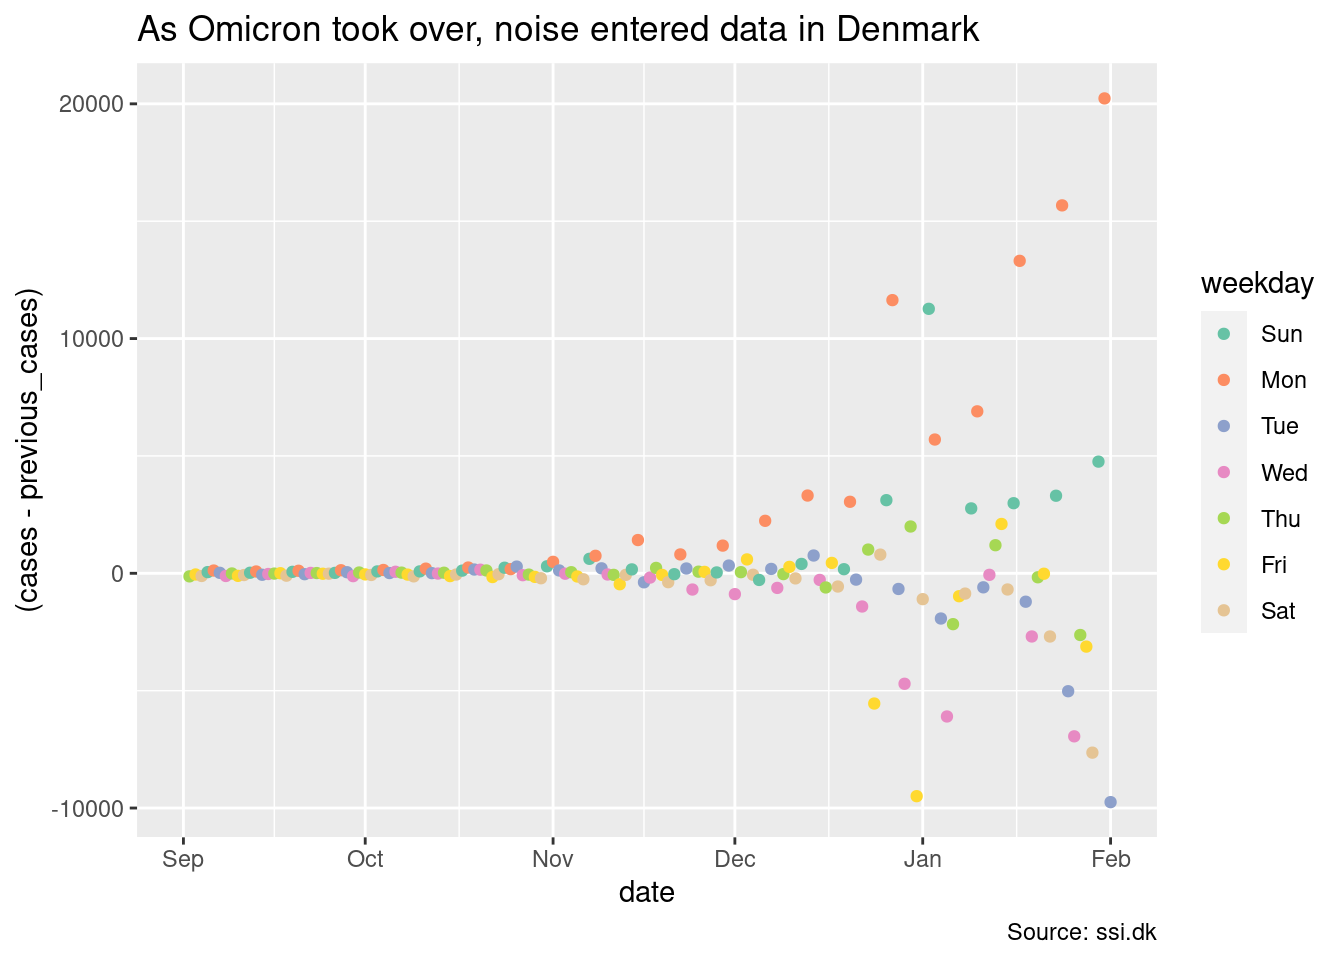
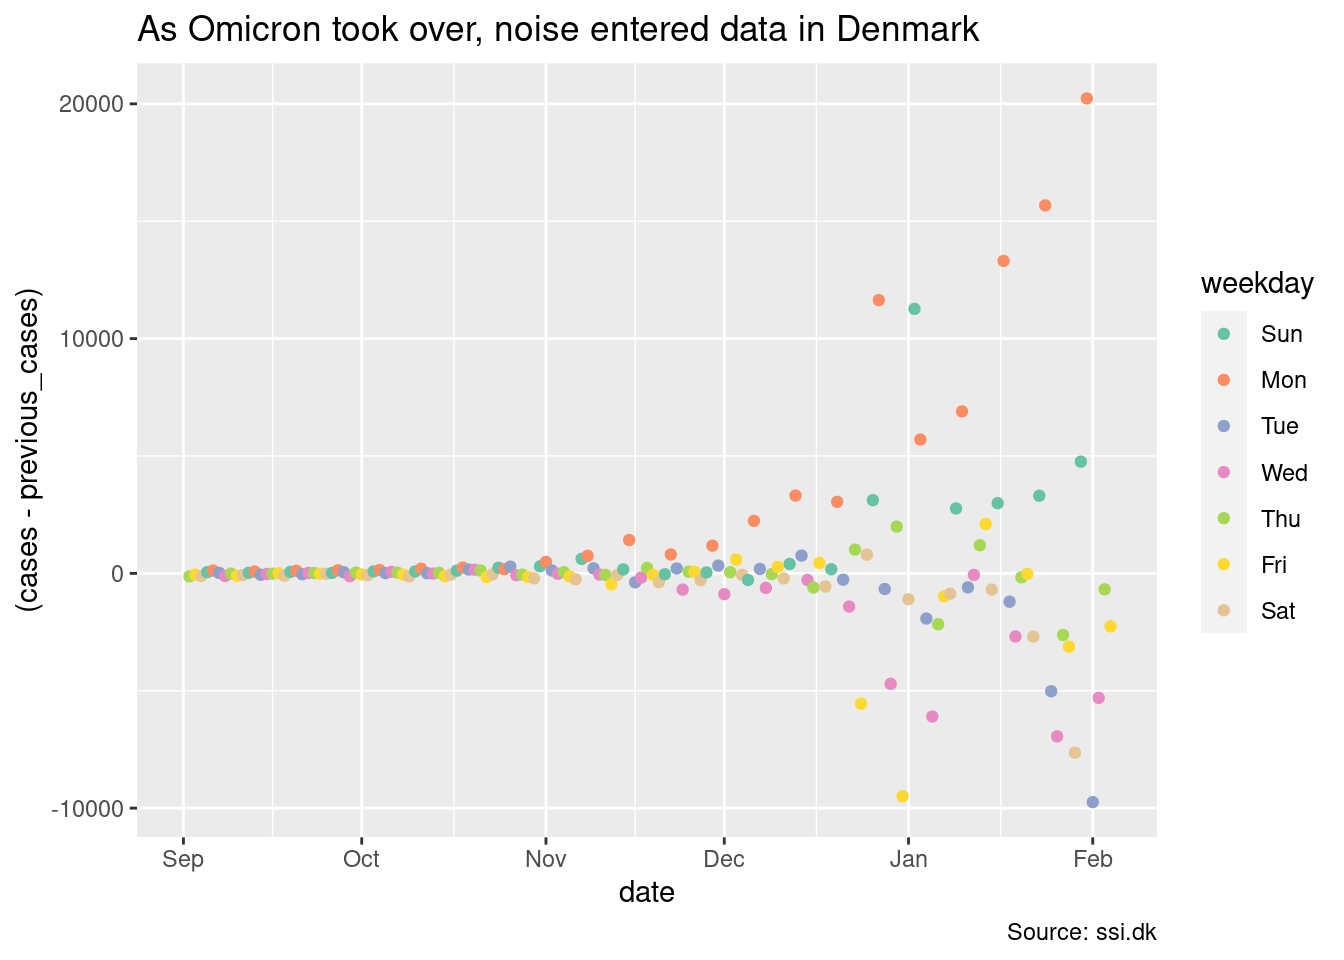
2022-02-07

diff --git a/docs/index.html b/docs/index.html
@@ -10,7 +10,7 @@
 
 
 
-<meta name="date" content="2022-02-04" />
+<meta name="date" content="2022-02-07" />
 
 <title>Covid-19 Stats for Denmark</title>
 
@@ -261,7 +261,7 @@ $(document).ready(function () {
 
 
 <h1 class="title toc-ignore">Covid-19 Stats for Denmark</h1>
-<h4 class="date">2022-02-04</h4>
+<h4 class="date">2022-02-07</h4>
 
 </div>
 
@@ -308,7 +308,7 @@ $(document).ready(function () {
 <pre class="r"><code>library(tidyverse)
 library(lubridate)</code></pre>
 <p>SSI’s data is in a zip file. We unpack this zip file into a directory of the general form <code>YYYY-MM-DD</code>. Lets set up a name for the current directory we want to grab data from</p>
-<pre class="r"><code>date &lt;- &quot;2022-02-04&quot;</code></pre>
+<pre class="r"><code>date &lt;- &quot;2022-02-07&quot;</code></pre>
 </div>
 <div id="ingesting-data" class="section level2">
 <h2>Ingesting data</h2>
@@ -350,7 +350,7 @@ library(lubridate)</code></pre>
                                       ))</code></pre>
 <pre><code>## ℹ Using &quot;&#39;,&#39;&quot; as decimal and &quot;&#39;.&#39;&quot; as grouping mark. Use `read_delim()` for more control.</code></pre>
 <pre class="r"><code>data</code></pre>
-<pre><code>## # A tibble: 6,734 × 9
+<pre><code>## # A tibble: 6,765 × 9
 ##    Region      Prøvetagningsdato Køn   `Bekræftede tilfælde`  Døde Indlæggelser
 ##    &lt;fct&gt;       &lt;date&gt;            &lt;fct&gt;                 &lt;dbl&gt; &lt;dbl&gt;        &lt;dbl&gt;
 ##  1 Sjælland    2020-02-26        M                         1     0            0
@@ -363,7 +363,7 @@ library(lubridate)</code></pre>
 ##  8 Hovedstaden 2020-03-03        F                         1     0            0
 ##  9 Hovedstaden 2020-03-03        M                         3     0            1
 ## 10 Hovedstaden 2020-03-04        M                         2     0            0
-## # … with 6,724 more rows, and 3 more variables: Kummuleret antal døde &lt;dbl&gt;,
+## # … with 6,755 more rows, and 3 more variables: Kummuleret antal døde &lt;dbl&gt;,
 ## #   Kummuleret antal bekræftede tilfælde &lt;dbl&gt;,
 ## #   Kummuleret antal indlæggelser &lt;dbl&gt;</code></pre>
 <p>We certainly don’t want to work with danish-named columns. Rather, we want small descriptive names which are easy to type. We send our dataset through a <code>rename</code> pass for this.</p>
@@ -378,7 +378,7 @@ library(lubridate)</code></pre>
 # Cut the cumulative columns away
 data &lt;- data %&gt;% select(region, date, gender, cases, deaths, hospitalizations)
 data</code></pre>
-<pre><code>## # A tibble: 6,734 × 6
+<pre><code>## # A tibble: 6,765 × 6
 ##    region      date       gender cases deaths hospitalizations
 ##    &lt;fct&gt;       &lt;date&gt;     &lt;fct&gt;  &lt;dbl&gt;  &lt;dbl&gt;            &lt;dbl&gt;
 ##  1 Sjælland    2020-02-26 M          1      0                0
@@ -391,7 +391,7 @@ data</code></pre>
 ##  8 Hovedstaden 2020-03-03 F          1      0                0
 ##  9 Hovedstaden 2020-03-03 M          3      0                1
 ## 10 Hovedstaden 2020-03-04 M          2      0                0
-## # … with 6,724 more rows</code></pre>
+## # … with 6,755 more rows</code></pre>
 <p>Provide a low cut-off. We are interested in the recent period with Omicron, rather than the full duration of Covid-19.</p>
 <pre class="r"><code>lo_cutoff &lt;- &#39;2021-09-01&#39;</code></pre>
 <p>The high end of that cutoff, we set to two days before the maximal date in our data set</p>
@@ -405,7 +405,7 @@ data</code></pre>
 # Put this into the summary
 summary &lt;- data
 summary</code></pre>
-<pre><code>## # A tibble: 1,540 × 6
+<pre><code>## # A tibble: 1,570 × 6
 ##    region      date       gender cases deaths hospitalizations
 ##    &lt;fct&gt;       &lt;date&gt;     &lt;fct&gt;  &lt;dbl&gt;  &lt;dbl&gt;            &lt;dbl&gt;
 ##  1 Hovedstaden 2021-09-01 F        210      0                7
@@ -418,7 +418,7 @@ summary</code></pre>
 ##  8 Nordjylland 2021-09-01 M         16      1                2
 ##  9 Sjælland    2021-09-01 M         37      0                3
 ## 10 Syddanmark  2021-09-01 M         41      0                1
-## # … with 1,530 more rows</code></pre>
+## # … with 1,560 more rows</code></pre>
 </div>
 <div id="weekly-key-figures-split-by-age" class="section level3">
 <h3>Weekly key figures split by age</h3>
@@ -443,7 +443,7 @@ summary</code></pre>
                         tested = &#39;Antal testede&#39;,
                         cases = &#39;Antal positive&#39;)
 data</code></pre>
-<pre><code>## # A tibble: 922 × 7
+<pre><code>## # A tibble: 931 × 7
 ##    week     ageGroup tested_100k cases_100k hospitalized_100k tested cases
 ##    &lt;chr&gt;    &lt;fct&gt;          &lt;dbl&gt;      &lt;dbl&gt;             &lt;dbl&gt;  &lt;dbl&gt; &lt;dbl&gt;
 ##  1 2020-W04 00-02              0          0                 0      0     0
@@ -456,7 +456,7 @@ data</code></pre>
 ##  8 2020-W04 65-79              0          0                 0      0     0
 ##  9 2020-W04 80+                0          0                 0      0     0
 ## 10 2020-W05 65-79              0          0                 0      1     0
-## # … with 912 more rows</code></pre>
+## # … with 921 more rows</code></pre>
 <p>Take a look at the <code>week</code> column. It reports a year, and a week number. We’ll need to handle this, by converting this into a date. We’ll do that by defining a fixup function. If we have a string such as <code>2020-W04</code>, it means the 4th week of 2020. To get a date, we need a day inside the week to use as the day-of-week. So we turn the string into <code>2020-W04-1</code>, then send it through <code>strptime()</code>, a general time-parsing function.</p>
 <pre class="r"><code>fixup_week &lt;- function(s) {
     # For strptime to do its work correctly, it must know a day of the week. Here, we
@@ -509,15 +509,15 @@ data</code></pre>
 ##     lau1 name      `Bekræftede tilf… Incidens cases incidence tested tested_100k
 ##    &lt;dbl&gt; &lt;fct&gt;                 &lt;dbl&gt;    &lt;dbl&gt; &lt;dbl&gt;     &lt;dbl&gt;  &lt;dbl&gt;       &lt;dbl&gt;
 ##  1   411 &quot;&quot;                        0       NA     0         0     87       95604
-##  2   101 &quot;Københa…            261642    40801 22116      3449 652647      102000
-##  3   147 &quot;Frederi…             39634    38408  3500      3392 111133      108000
-##  4   151 &quot;Balleru…             19170    38977  1989      4044  49830      101000
-##  5   153 &quot;Brøndby&quot;             15209    42676  1147      3218  35971      101000
-##  6   155 &quot;Dragør&quot;               5454    37336   600      4107  14477       99103
-##  7   157 &quot;Gentoft…             28084    37988  2954      3996  75530      102000
-##  8   159 &quot;Gladsax…             27161    39280  2710      3919  71617      104000
-##  9   161 &quot;Glostru…              9477    40469   840      3587  24253      104000
-## 10   163 &quot;Herlev&quot;              12148    42207  1047      3638  29633      103000
+##  2   101 &quot;Københa…            269122    41967 20548      3204 653269      102000
+##  3   147 &quot;Frederi…             41018    39750  3431      3325 111299      108000
+##  4   151 &quot;Balleru…             19849    40357  1844      3749  49865      101000
+##  5   153 &quot;Brøndby&quot;             15627    43849  1018      2857  36010      101000
+##  6   155 &quot;Dragør&quot;               5729    39218   603      4128  14492       99206
+##  7   157 &quot;Gentoft…             29019    39253  2577      3486  75615      102000
+##  8   159 &quot;Gladsax…             27939    40405  2428      3511  71686      104000
+##  9   161 &quot;Glostru…              9785    41784   783      3344  24278      104000
+## 10   163 &quot;Herlev&quot;              12509    43461   930      3231  29663      103000
 ## # … with 89 more rows, and 3 more variables: tested_1w &lt;dbl&gt;,
 ## #   tested_100k_1w &lt;dbl&gt;, population &lt;dbl&gt;</code></pre>
 <pre class="r"><code>muncipalities &lt;- data</code></pre>
@@ -629,6 +629,17 @@ p &lt;- ggplot(regions, aes(x=date, y=cases))
 plot_regions(p, &quot;Regional split of cases, DK&quot;,
                 &quot;Copenhagen-general area (Hovedstaden) contributes most of the noise&quot;)</code></pre>
 <p><img src="index_files/figure-html/regional-cases-1.png" width="672" /></p>
+<p>We can also visualize regional new hospitalizations:</p>
+<pre class="r"><code>p &lt;- ggplot(regions, aes(x=date, y=hospitalizations))
+p + geom_point(aes(color=region), size=.5) +
+    facet_grid(rows=vars(region)) +
+    scale_colour_brewer(palette=&quot;Set2&quot;) +
+    labs(title = &quot;Regional split of Hospitalizations, DK&quot;,
+         subtitle = &quot;Copenhagen-general area (Hovedstaden) contributes most of the noise&quot;,
+         caption = &quot;Source: ssi.dk&quot;,
+         x = &quot;Date&quot;,
+         y = &quot;Detected Cases&quot;)</code></pre>
+<p><img src="index_files/figure-html/regional-hospitalizations-1.png" width="672" /></p>
 </div>
 </div>
 <div id="weekly-data" class="section level2">
@@ -677,23 +688,21 @@ muncipalities$incidence_type &lt;- ifelse(muncipalities$incidence_z &lt; 0, &quo
 muncipalities$rate_z &lt;- round(muncipalities$rate - mean(muncipalities$rate), 5)
 muncipalities$rate_type &lt;- ifelse(muncipalities$rate_z &lt; 0, &quot;Below mean&quot;, &quot;Above mean&quot;)
 muncipalities$rate</code></pre>
-<pre><code>##  [1] 0.00000000 0.27877077 0.28450658 0.25993204 0.24886092 0.27359781
-##  [7] 0.29880639 0.27299285 0.25324088 0.25047847 0.25062797 0.27426770
-## [13] 0.24726960 0.30974435 0.25989704 0.24926341 0.26448694 0.26954069
-## [19] 0.32758868 0.30971452 0.28710544 0.29177867 0.27609660 0.31770186
-## [25] 0.29275770 0.28305757 0.28796234 0.27022771 0.27028348 0.29234528
-## [31] 0.27048245 0.29230769 0.26340746 0.22803943 0.27057233 0.26309662
-## [37] 0.31093047 0.26213592 0.27294764 0.27250932 0.27500000 0.27209596
-## [43] 0.20147006 0.27440563 0.24963085 0.27003092 0.22066403 0.28752967
-## [49] 0.31055809 0.30514786 0.26655745 0.27727130 0.26560329 0.27470406
-## [55] 0.31661071 0.23712342 0.17805151 0.30236420 0.28563050 0.23570376
-## [61] 0.25744000 0.31535291 0.26691042 0.35262621 0.37087617 0.25446612
-## [67] 0.29225067 0.30527696 0.33041969 0.26645077 0.33636603 0.29835627
-## [73] 0.30150068 0.27058178 0.34707956 0.31247444 0.32830800 0.29823638
-## [79] 0.33715769 0.34314324 0.32132964 0.34940894 0.34568249 0.33319957
-## [85] 0.32383099 0.30885444 0.31147059 0.30567686 0.30048394 0.31755166
-## [91] 0.32920326 0.30328659 0.31453508 0.09947644 0.34025288 0.32049672
-## [97] 0.28970833 0.29565365 0.32804080</code></pre>
+<pre><code>##  [1] 0.0000000 0.2902506 0.3032526 0.2707783 0.2522299 0.2982196 0.3020394
+##  [8] 0.2747850 0.2656038 0.2510799 0.2577287 0.2739298 0.2489718 0.3231044
+## [15] 0.2748046 0.2460053 0.2788492 0.2701937 0.3289430 0.3241957 0.3029975
+## [22] 0.3019833 0.2913011 0.2973169 0.2989812 0.2927572 0.2866698 0.2783180
+## [29] 0.2811772 0.2973506 0.2778354 0.2879764 0.2830870 0.2448000 0.2859428
+## [36] 0.2767375 0.3404028 0.2949474 0.2917805 0.2739516 0.3064867 0.2688465
+## [43] 0.2216017 0.2864748 0.2607466 0.2766367 0.2579988 0.3115468 0.3301465
+## [50] 0.3365808 0.2924833 0.2948221 0.2737694 0.2995148 0.3349087 0.2528678
+## [57] 0.1905911 0.3256520 0.3043478 0.2532242 0.2859072 0.3460000 0.2960993
+## [64] 0.3715869 0.3818848 0.2818888 0.3003580 0.3359802 0.3425914 0.3022909
+## [71] 0.3684416 0.3238748 0.3392084 0.2971413 0.3745998 0.3537764 0.3546435
+## [78] 0.3255463 0.3632085 0.3680985 0.4045977 0.3710517 0.3647865 0.3703025
+## [85] 0.3735201 0.3504262 0.3363112 0.3354335 0.3301127 0.3524310 0.3618727
+## [92] 0.3257914 0.3482820 0.1230769 0.3543812 0.3450072 0.3146864 0.3167664
+## [99] 0.3488074</code></pre>
 <pre class="r"><code>ggplot(muncipalities %&gt;% mutate(name = fct_reorder(name, rate)), aes(x=name, y=rate)) +
   geom_bar(stat=&#39;identity&#39;, aes(fill=rate_type), width=.5)  +
   scale_colour_brewer(palette=&quot;Set2&quot;) +
@@ -753,15 +762,15 @@ popcount</code></pre>
 ##    name            incidence popcount
 ##    &lt;chr&gt;               &lt;dbl&gt;    &lt;dbl&gt;
 ##  1 &quot;&quot;                      0       NA
-##  2 &quot;København&quot;          3449   644987
-##  3 &quot;Frederiksberg&quot;      3392   103963
-##  4 &quot;Ballerup&quot;           4044    49228
-##  5 &quot;Brøndby&quot;            3218    35535
-##  6 &quot;Dragør&quot;             4107    14602
-##  7 &quot;Gentofte&quot;           3996    74154
-##  8 &quot;Gladsaxe&quot;           3919    69321
-##  9 &quot;Glostrup&quot;           3587    23519
-## 10 &quot;Herlev&quot;             3638    28861
+##  2 &quot;København&quot;          3204   644987
+##  3 &quot;Frederiksberg&quot;      3325   103963
+##  4 &quot;Ballerup&quot;           3749    49228
+##  5 &quot;Brøndby&quot;            2857    35535
+##  6 &quot;Dragør&quot;             4128    14602
+##  7 &quot;Gentofte&quot;           3486    74154
+##  8 &quot;Gladsaxe&quot;           3511    69321
+##  9 &quot;Glostrup&quot;           3344    23519
+## 10 &quot;Herlev&quot;             3231    28861
 ## # … with 89 more rows</code></pre>
 <p>Now, test correlation via Pearson:</p>
 <pre class="r"><code>plot(muncipalities$incidence, muncipalities$popcount)</code></pre>
@@ -771,13 +780,13 @@ popcount</code></pre>
 ##  Pearson&#39;s product-moment correlation
 ## 
 ## data:  muncipalities$incidence and muncipalities$popcount
-## t = -0.032368, df = 92, p-value = 0.9742
+## t = -0.3733, df = 92, p-value = 0.7098
 ## alternative hypothesis: true correlation is not equal to 0
 ## 95 percent confidence interval:
-##  -0.2058508  0.1993787
+##  -0.2396186  0.1650276
 ## sample estimates:
-##          cor 
-## -0.003374583</code></pre>
+##         cor 
+## -0.03888974</code></pre>
 <p>Clearly, this argues there are no strong connection between population count, and the incidence in a given muncipality.</p>
 <p>Analyzing the rate shows there’s a connection between it and incidence, but this is more expected:</p>
 <pre class="r"><code>pairs(muncipalities %&gt;% select(incidence,popcount,rate))</code></pre>
@@ -787,17 +796,17 @@ popcount</code></pre>
 ##  Pearson&#39;s product-moment correlation
 ## 
 ## data:  muncipalities$incidence and muncipalities$rate
-## t = 13.468, df = 97, p-value &lt; 2.2e-16
+## t = 14.53, df = 97, p-value &lt; 2.2e-16
 ## alternative hypothesis: true correlation is not equal to 0
 ## 95 percent confidence interval:
-##  0.7253841 0.8665330
+##  0.7534768 0.8811807
 ## sample estimates:
 ##       cor 
-## 0.8072047</code></pre>
+## 0.8277628</code></pre>
 <p>Summarize:</p>
 <pre class="r"><code>summary(muncipalities$rate)</code></pre>
 <pre><code>##    Min. 1st Qu.  Median    Mean 3rd Qu.    Max. 
-##  0.0000  0.2665  0.2871  0.2837  0.3112  0.3709</code></pre>
+##  0.0000  0.2773  0.2995  0.3024  0.3364  0.4046</code></pre>
 <pre class="r"><code>d &lt;- density(muncipalities$rate)
 plot(d)</code></pre>
 <p><img src="index_files/figure-html/muncipality-summary-1.png" width="672" /></p>

diff --git a/docs/core.html b/docs/core.html
@@ -325,7 +325,7 @@ rt_cases</code></pre>
 <pre class="r"><code>m_cases_timeseries_path &lt;- sprintf(&quot;%s/Municipality_cases_time_series.csv&quot;, path)
 m_cases_timeseries &lt;- readr::read_csv2(m_cases_timeseries_path)
 m_cases_timeseries</code></pre>
-<pre><code>## # A tibble: 709 × 101
+<pre><code>## # A tibble: 712 × 101
 ##    SampleDate Roskilde Copenhagen Aarhus Frederiksberg Kalundborg Middelfart
 ##    &lt;date&gt;        &lt;dbl&gt;      &lt;dbl&gt;  &lt;dbl&gt;         &lt;dbl&gt;      &lt;dbl&gt;      &lt;dbl&gt;
 ##  1 2020-02-26        1          0      0             0          0          0
@@ -338,7 +338,7 @@ m_cases_timeseries</code></pre>
 ##  8 2020-03-05        0          2      0             2          0          0
 ##  9 2020-03-06        0          0      0             0          0          0
 ## 10 2020-03-07        0          1      1             1          0          0
-## # … with 699 more rows, and 94 more variables: Gentofte &lt;dbl&gt;, Solrød &lt;dbl&gt;,
+## # … with 702 more rows, and 94 more variables: Gentofte &lt;dbl&gt;, Solrød &lt;dbl&gt;,
 ## #   Allerød &lt;dbl&gt;, Dragør &lt;dbl&gt;, Helsingør &lt;dbl&gt;, Hillerød &lt;dbl&gt;,
 ## #   Rudersdal &lt;dbl&gt;, Næstved &lt;dbl&gt;, Aalborg &lt;dbl&gt;, Vallensbæk &lt;dbl&gt;,
 ## #   Esbjerg &lt;dbl&gt;, Favrskov &lt;dbl&gt;, Frederikssund &lt;dbl&gt;, Furesø &lt;dbl&gt;,
@@ -351,7 +351,7 @@ m_cases_timeseries</code></pre>
   rename(date = `SampleDate`)
 
 m_cases_timeseries</code></pre>
-<pre><code>## # A tibble: 70,900 × 3
+<pre><code>## # A tibble: 71,200 × 3
 ##    date       Municipality  Cases
 ##    &lt;date&gt;     &lt;chr&gt;         &lt;dbl&gt;
 ##  1 2020-02-26 Roskilde          1
@@ -364,7 +364,7 @@ m_cases_timeseries</code></pre>
 ##  8 2020-02-26 Solrød            0
 ##  9 2020-02-26 Allerød           0
 ## 10 2020-02-26 Dragør            0
-## # … with 70,890 more rows</code></pre>
+## # … with 71,190 more rows</code></pre>
 <p>We use the same strategy for the tests:</p>
 <pre class="r"><code>m_tested_timeseries_path &lt;- sprintf(&quot;%s/Municipality_tested_persons_time_series.csv&quot;, path)
 m_tested_timeseries &lt;- readr::read_csv2(m_tested_timeseries_path)
@@ -375,7 +375,7 @@ m_tested_timeseries &lt;- m_tested_timeseries %&gt;%
 <pre class="r"><code>municipality &lt;- m_cases_timeseries %&gt;% left_join(m_tested_timeseries, by = c(&quot;date&quot;, &quot;Municipality&quot;))
 municipality &lt;- municipality %&gt;% mutate(Municipality = factor(Municipality))
 municipality</code></pre>
-<pre><code>## # A tibble: 70,900 × 4
+<pre><code>## # A tibble: 71,200 × 4
 ##    date       Municipality  Cases Tested
 ##    &lt;date&gt;     &lt;fct&gt;         &lt;dbl&gt;  &lt;dbl&gt;
 ##  1 2020-02-26 Roskilde          1      3
@@ -388,7 +388,7 @@ municipality</code></pre>
 ##  8 2020-02-26 Solrød            0      0
 ##  9 2020-02-26 Allerød           0      0
 ## 10 2020-02-26 Dragør            0      0
-## # … with 70,890 more rows</code></pre>
+## # … with 71,190 more rows</code></pre>
 </div>
 </div>
 <div id="plots-of-interest" class="section level2">
